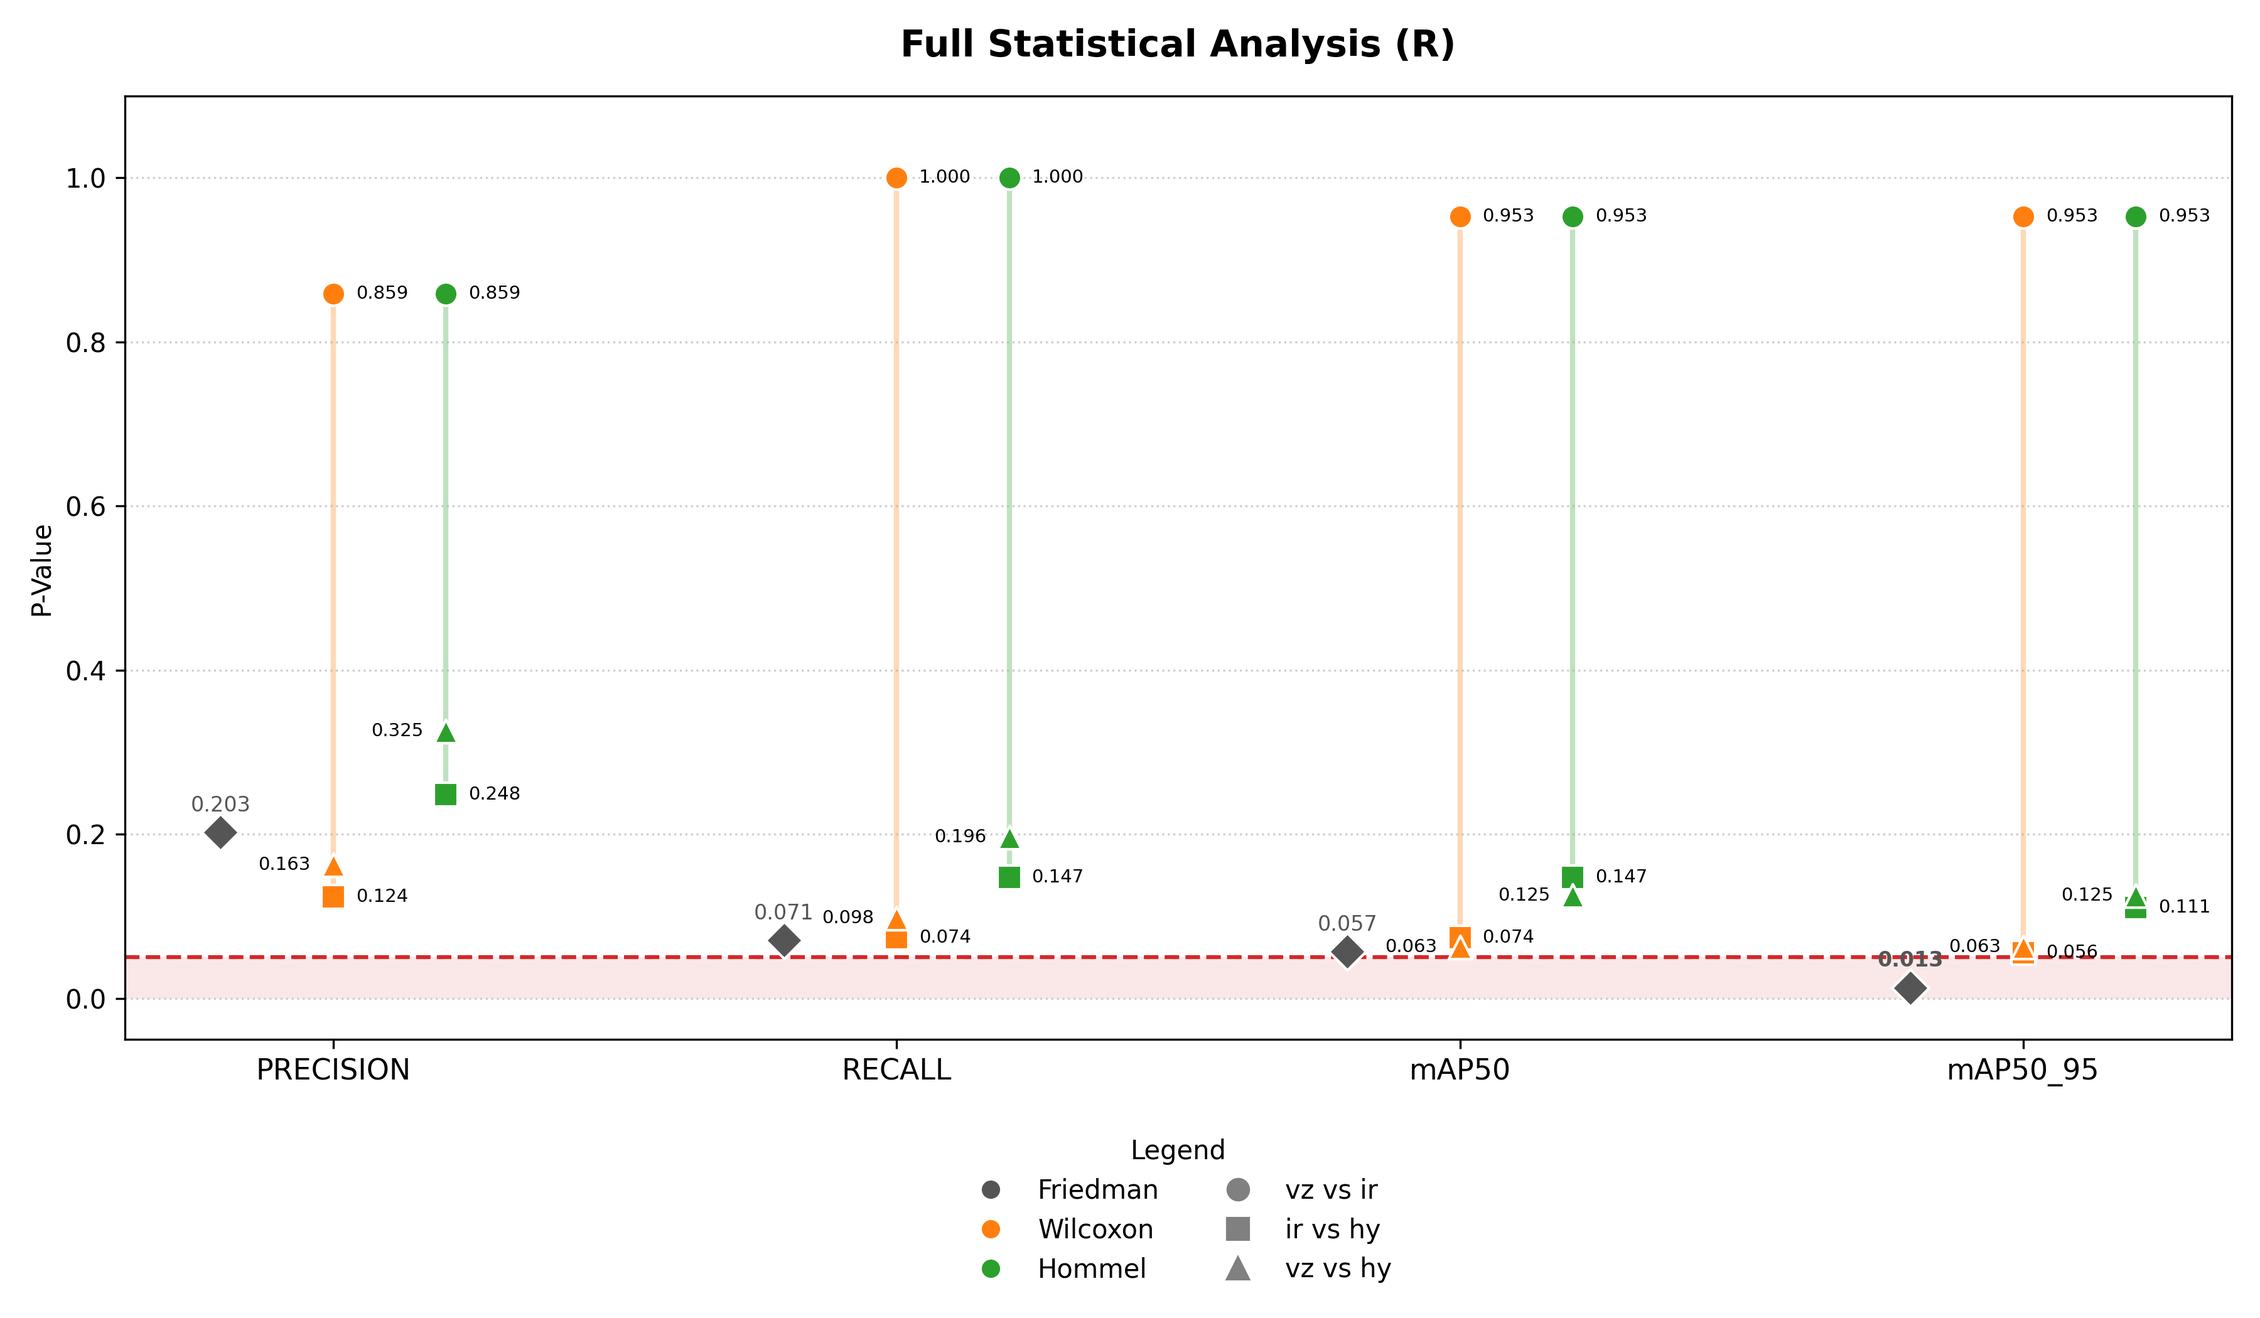
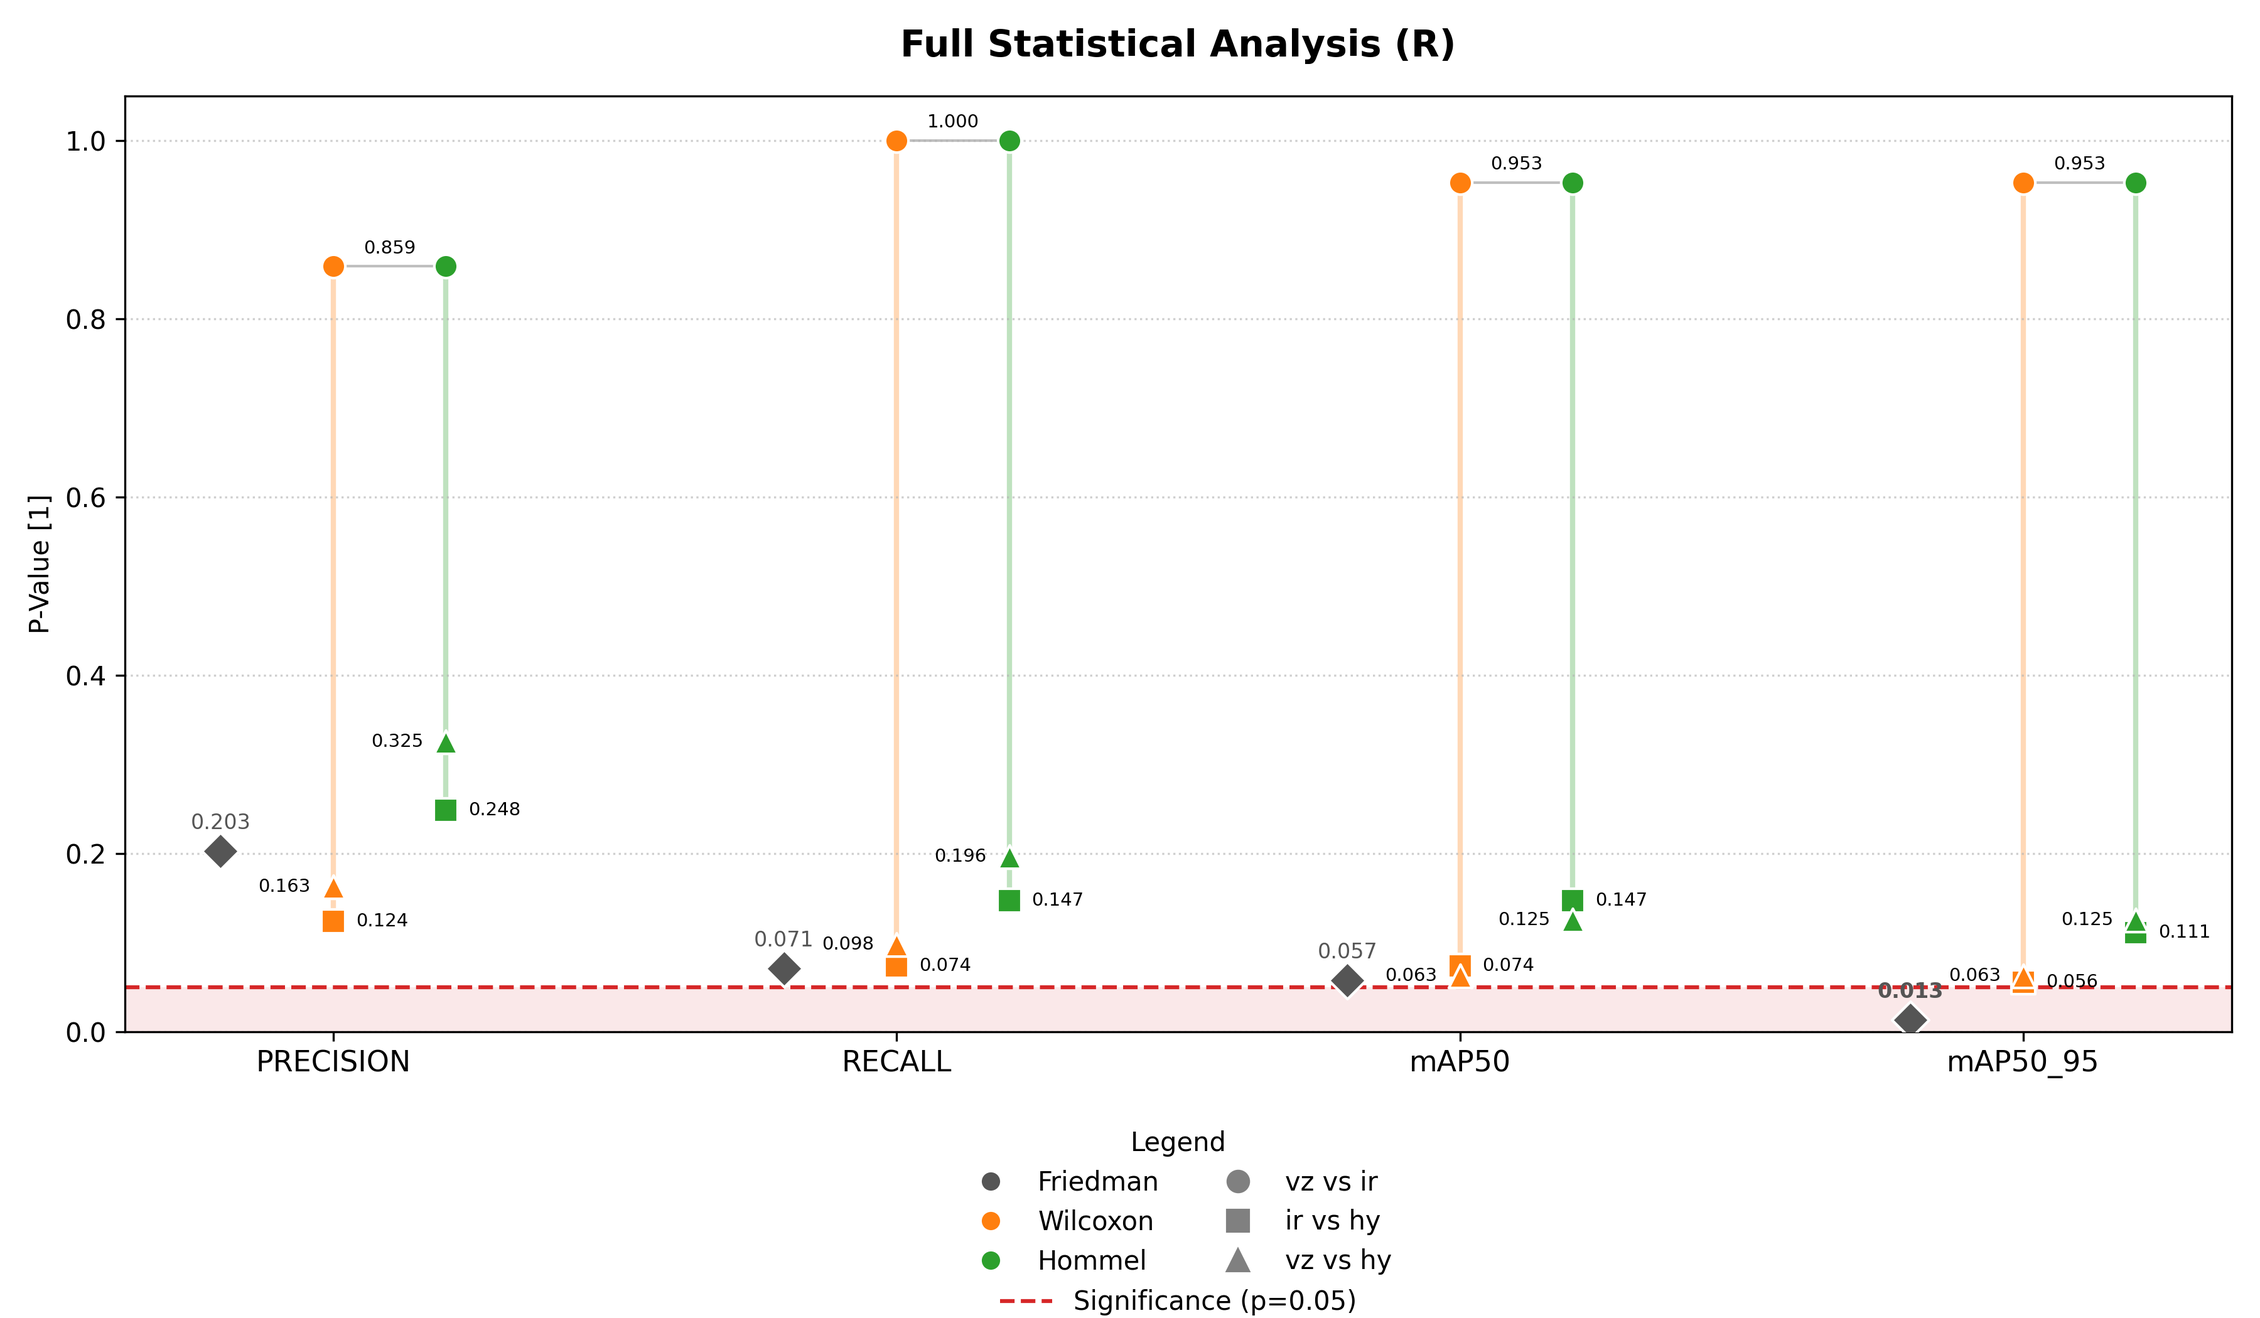
update plots based on feedback

diff --git a/uav/visualization/wilcoxon.py b/uav/visualization/wilcoxon.py
@@ -26,10 +26,8 @@ def render_wilcoxon(results_filepath: str, wilcoxon_png_filepath: str) -> None:
 
     for i, col_name in enumerate(comparisons):
         ax = axes[i]
-        
-        ax.axhspan(0, SIG_THRESHOLD, facecolor=SIG_COLOR, alpha=0.1, zorder=0)
-        ax.axhline(SIG_THRESHOLD, color=SIG_COLOR, linestyle='--', linewidth=1.5, alpha=0.8)
-        
+
+        all_y_vals = []
         for impl in IMPLEMENTATIONS:
             y_vals = []
             valid_x = []
@@ -43,55 +41,119 @@ def render_wilcoxon(results_filepath: str, wilcoxon_png_filepath: str) -> None:
             
             if not y_vals: continue
 
-            ax.scatter(valid_x, y_vals, color=COLORS[impl], label=impl, 
+            all_y_vals.extend(y_vals)
+            scatter = ax.scatter(valid_x, y_vals, color=COLORS[impl], label=impl,
                     s=90, marker=MARKERS[impl], edgecolors='white', linewidth=1, zorder=3)
+            scatter.set_clip_on(True)
 
-        for x_idx, metric in enumerate(METRICS):            
-            for order_idx, impl in enumerate(ordered_impls):
-                
+        if all_y_vals:
+            y_range = max(all_y_vals) - min(all_y_vals)
+            text_offset = y_range * 0.03 if y_range > 0 else 0.01
+            y_min, y_max = min(all_y_vals), max(all_y_vals)
+            margin = y_range * 0.15 if y_range > 0 else 0.1
+            plot_y_min = max(0, y_min - margin)
+            plot_y_max = y_max + margin if y_max >= 0.98 else min(1.0, y_max + margin)
+        else:
+            text_offset = 0.03
+            plot_y_min, plot_y_max = 0, 1.0
+
+        for x_idx, metric in enumerate(METRICS):
+            metric_values = {}
+            for impl in ordered_impls:
                 row = df[(df['measured_metric'] == metric) & (df['implementation'] == impl)]
-                if row.empty: continue
-                
-                try:
-                    val = row[col_name].values[0]
-                except IndexError:
+                if not row.empty:
+                    try:
+                        val = row[col_name].values[0]
+                        metric_values[impl] = val
+                    except IndexError:
+                        pass
+
+            at_one = [impl for impl, val in metric_values.items() if val == 1.0]
+
+            if len(at_one) > 1:
+                x_positions = [x_idx + offsets[impl] for impl in at_one]
+                ax.plot(x_positions, [1.0] * len(at_one), color='gray', linewidth=1, alpha=0.5, zorder=1)
+
+                center_x = sum(x_positions) / len(x_positions)
+                y_loc = 1.0 - text_offset
+                ax.text(center_x, y_loc, '1.000',
+                        ha='center', va='top',
+                        fontsize=7, fontweight='normal', color='black', zorder=4,
+                        clip_on=False)
+
+            for order_idx, impl in enumerate(ordered_impls):
+                if impl not in metric_values:
                     continue
-                
-                x_loc = x_idx + offsets[impl]                
+
+                val = metric_values[impl]
+
+                if val == 1.0 and len(at_one) > 1:
+                    continue
+
+                x_loc = x_idx + offsets[impl]
                 is_above = (order_idx % 2 == 0)
-                
+
                 if is_above:
-                    y_loc = val + 0.03
+                    y_loc = val + text_offset
                     va = 'bottom'
                 else:
-                    y_loc = val - 0.03
+                    y_loc = val - text_offset
                     va = 'top'
 
+                y_loc = max(plot_y_min, min(plot_y_max, y_loc))
+
                 fw = 'bold' if val < SIG_THRESHOLD else 'normal'
-                
-                ax.text(x_loc, y_loc, f'{val:.3f}', 
-                        ha='center', va=va, 
+
+                ax.text(x_loc, y_loc, f'{val:.3f}',
+                        ha='center', va=va,
                         fontsize=7, fontweight=fw, color='black', zorder=4)
+
+        if all_y_vals:
+            if plot_y_min <= SIG_THRESHOLD <= plot_y_max:
+                ax.axhline(SIG_THRESHOLD, color=SIG_COLOR, linestyle='--', linewidth=1.5, label=f'Significance (p={SIG_THRESHOLD})')
+                span_bottom = max(0, plot_y_min)
+                ax.axhspan(span_bottom, SIG_THRESHOLD, facecolor=SIG_COLOR, alpha=0.1, zorder=0)
+
+            ax.set_ylim(plot_y_min, plot_y_max)
 
         ax.set_title(comp_labels[i], fontweight='bold')
         ax.set_xticks(x_pos)
         ax.set_xticklabels(METRICS, rotation=45, ha='right')
         
-        ax.set_ylim(0.0, 1.05) 
         ax.grid(axis='y', linestyle=':', alpha=0.6, linewidth=1)
         
         if i == 0:
-            ax.set_ylabel('Wilcoxon P-Value')
+            ax.set_ylabel('Wilcoxon P-Value [1]')
 
-    handles, labels = axes[0].get_legend_handles_labels()
-    unique_labels = {l: h for l, h in zip(labels, handles)}
-    
-    fig.legend(unique_labels.values(), unique_labels.keys(), 
-                loc='lower center', ncol=3, 
-                bbox_to_anchor=(0.5, 0.02), frameon=False, title='Implementation')
+    all_handles = []
+    all_labels = []
+    for ax in axes:
+        h, l = ax.get_legend_handles_labels()
+        all_handles.extend(h)
+        all_labels.extend(l)
+
+    unique_labels = {l: h for l, h in zip(all_labels, all_handles)}
+
+    impl_handles = [unique_labels[impl] for impl in IMPLEMENTATIONS if impl in unique_labels]
+    impl_labels = [impl for impl in IMPLEMENTATIONS if impl in unique_labels]
+
+    sig_handle = unique_labels.get(f'Significance (p={SIG_THRESHOLD})', None)
+
+    if sig_handle:
+        legend1 = fig.legend(impl_handles, impl_labels,
+                            loc='lower center', ncol=3,
+                            bbox_to_anchor=(0.5, 0.06), frameon=False, title='Implementation')
+        fig.add_artist(legend1)
+        fig.legend([sig_handle], [f'Significance (p={SIG_THRESHOLD})'],
+                   loc='lower center', ncol=1,
+                   bbox_to_anchor=(0.5, 0.02), frameon=False)
+    else:
+        fig.legend(impl_handles, impl_labels,
+                   loc='lower center', ncol=3,
+                   bbox_to_anchor=(0.5, 0.04), frameon=False, title='Implementation')
 
     plt.suptitle('Paired Wilcoxon Test Results', fontsize=14, fontweight='bold', y=0.98)
-    
-    plt.subplots_adjust(bottom=0.20, top=0.90, wspace=0.2, left=0.08, right=0.98)
+
+    plt.subplots_adjust(bottom=0.25, top=0.90, wspace=0.2, left=0.08, right=0.98)
     plt.savefig(wilcoxon_png_filepath, dpi=300)
     plt.close()

diff --git a/uav/visualization/full_statistical_analysis.py b/uav/visualization/full_statistical_analysis.py
@@ -73,9 +73,9 @@ def render_full_statistical_analysis(results_filepath: str, full_analysis_png_fi
     x_indices = np.arange(len(METRICS))
     offset_map = {'Friedman': -0.2, 'Wilcoxon': 0.0, 'Hommel': 0.2}
 
+    ax.axhline(SIG_THRESHOLD, color=SIG_COLOR, linestyle='--', linewidth=1.5, label=f'Significance (p={SIG_THRESHOLD})', zorder=2)
     ax.axhspan(0, SIG_THRESHOLD, facecolor=SIG_COLOR, alpha=0.1, zorder=0)
-    ax.axhline(SIG_THRESHOLD, color=SIG_COLOR, linestyle='--', linewidth=1.5, label=f'Significance (p={SIG_THRESHOLD})')
-
+    
     for i, metric in enumerate(METRICS):
         row = df[df['measured_metric'] == metric].iloc[0]
         
@@ -96,38 +96,61 @@ def render_full_statistical_analysis(results_filepath: str, full_analysis_png_fi
         
         pair_names = ['1v2', '2v3', '1v3']
 
+        wilcoxon_vals = [row[c] for c in ['wilcoxon_p_1v2', 'wilcoxon_p_2v3', 'wilcoxon_p_1v3']]
+        hommel_vals = [row[c] for c in ['hommel_p_1v2', 'hommel_p_2v3', 'hommel_p_1v3']]
+
+        equal_pairs = {pair: (wilc == homm) for pair, wilc, homm in zip(pair_names, wilcoxon_vals, hommel_vals)}
+
         for test_name, cols in test_groups:
             vals = [row[c] for c in cols]
             x_base = x_indices[i] + offset_map[test_name]
-            
+
             ax.vlines(x_base, min(vals), max(vals), color=COLOR_MAP[test_name], alpha=0.3, linewidth=2, zorder=1)
-            
+
             for val, pair in zip(vals, pair_names):
-                ax.scatter(x_base, val, color=COLOR_MAP[test_name], marker=MARKER_MAP[pair], 
+                ax.scatter(x_base, val, color=COLOR_MAP[test_name], marker=MARKER_MAP[pair],
                         s=80, edgecolors='white', zorder=3)
-                
+
+                if equal_pairs[pair]:
+                    continue
+
                 fw = 'bold' if val < SIG_THRESHOLD else 'normal'
-                
-                if pair == '1v3': 
+
+                if pair == '1v3':
                     ha_align = 'right'
                     text_offset_x = -0.04
-                elif pair == '2v3': 
+                elif pair == '2v3':
                     ha_align = 'left'
                     text_offset_x = 0.04
+                elif pair == '1v2' and test_name == 'Wilcoxon':
+                    ha_align = 'right'
+                    text_offset_x = -0.04
                 else:
                     ha_align = 'left'
                     text_offset_x = 0.04
-                
-                ax.text(x_base + text_offset_x, val, f'{val:.3f}', 
+
+                ax.text(x_base + text_offset_x, val, f'{val:.3f}',
                         ha=ha_align, va='center', fontsize=7, fontweight=fw, color='black')
 
+        for pair, wilc_val, homm_val in zip(pair_names, wilcoxon_vals, hommel_vals):
+            if wilc_val == homm_val:
+                x_wilc = x_indices[i] + offset_map['Wilcoxon']
+                x_homm = x_indices[i] + offset_map['Hommel']
+                ax.plot([x_wilc, x_homm], [wilc_val, homm_val], color='gray', linewidth=1, alpha=0.5, zorder=1)
+
+                x_center = (x_wilc + x_homm) / 2
+                fw = 'bold' if wilc_val < SIG_THRESHOLD else 'normal'
+                ax.text(x_center, wilc_val + 0.01, f'{wilc_val:.3f}',
+                        ha='center', va='bottom', fontsize=7, fontweight=fw, color='black', zorder=4)
+
     ax.set_title(title, fontweight='bold', fontsize=14, pad=15)
-    ax.set_ylabel('P-Value')
+    ax.set_ylabel('P-Value [1]')
     ax.set_xticks(x_indices)
     ax.set_xticklabels(METRICS, fontsize=11)
-    ax.set_ylim(-0.05, 1.1)
     ax.grid(axis='y', linestyle=':', alpha=0.6)
 
+    current_ylim = ax.get_ylim()
+    ax.set_ylim(0, current_ylim[1])
 
     legend_elements = [
         Line2D([0], [0], marker='o', color='w', markerfacecolor=COLOR_MAP['Friedman'], label='Friedman', markersize=8),
@@ -139,10 +162,15 @@ def render_full_statistical_analysis(results_filepath: str, full_analysis_png_fi
         Line2D([0], [0], marker=MARKER_MAP['1v3'], color='gray', label='vz vs hy', markerfacecolor='gray', markersize=8, linestyle='None'),
     ]
 
-    ax.legend(handles=legend_elements, loc='upper center', bbox_to_anchor=(0.5, -0.08),
-            ncol=2, frameon=False, title="Legend")
+    legend1 = ax.legend(handles=legend_elements, loc='upper center', bbox_to_anchor=(0.5, -0.08),
+                        ncol=2, frameon=False, title="Legend")
+    ax.add_artist(legend1)
 
-    plt.subplots_adjust(bottom=0.2)
+    sig_element = Line2D([0], [0], color=SIG_COLOR, linestyle='--', linewidth=1.5, label=f'Significance (p={SIG_THRESHOLD})')
+    ax.legend(handles=[sig_element], loc='upper center', bbox_to_anchor=(0.5, -0.25),
+              ncol=1, frameon=False)
+
+    plt.subplots_adjust(bottom=0.28)
     plt.tight_layout()
     plt.savefig(png_filepath, dpi=300)
     plt.close()

diff --git a/uav/visualization/metrics.py b/uav/visualization/metrics.py
@@ -10,8 +10,18 @@ def render_violin_plots(csv_path: str, output_path: str) -> None:
     if 'mAP50-95' in df.columns:
         df = df.rename(columns={'mAP50-95': 'mAP50_95'})
 
-    metrics = ['precision', 'recall', 'mAP50', 'mAP50_95']
-    df_subset = df[['experiment'] + metrics]
+    metrics_map = {
+        'precision': 'PRECISION',
+        'recall': 'RECALL',
+        'mAP50': 'mAP50',
+        'mAP50_95': 'mAP50_95'
+    }
+
+    actual_columns = [col for col in ['precision', 'recall', 'mAP50', 'mAP50_95'] if col in df.columns]
+    df_subset = df[['experiment'] + actual_columns].copy()
+
+    df_subset = df_subset.rename(columns=metrics_map)
+    metrics = list(metrics_map.values())
 
     stats = df_subset.groupby('experiment')[metrics].agg(['mean', 'std'])
     experiment_order = ['VZ', 'IR', 'HY']
@@ -24,35 +34,36 @@ def render_violin_plots(csv_path: str, output_path: str) -> None:
     )
 
     g = sns.catplot(
-        data=df_melted, 
-        x='experiment', 
-        y='Score', 
+        data=df_melted,
+        x='experiment',
+        y='Score',
         col='Metric',
-        kind='violin', 
+        kind='violin',
         col_wrap=4,
         order=experiment_order,
         sharey=False,
         sharex=False,
-        height=5, 
+        height=5,
         aspect=0.7,
+        hue='experiment',
         palette={'VZ': '#2E86AB', 'IR': '#A23B72', 'HY': '#F18F01'},
+        legend=False,
         inner='quartile',
         cut=0
     )
 
-    g.set(ylim=(0.35, 1.05))
     g.set_titles("{col_name}", fontweight='bold', size=14)
 
     for ax in g.axes.flatten():
         metric_name = ax.get_title()
-        
+
         ranking_data = []
         for exp in experiment_order:
             if exp in stats.index:
                 m_val = stats.loc[exp, (metric_name, 'mean')]
                 s_val = stats.loc[exp, (metric_name, 'std')]
                 ranking_data.append({'exp': exp, 'mean': m_val, 'std': s_val})
-        
+
         ranking_data.sort(key=lambda x: (-x['mean'], x['std']))
         rank_map = {item['exp']: i for i, item in enumerate(ranking_data)}
 
@@ -61,21 +72,27 @@ def render_violin_plots(csv_path: str, output_path: str) -> None:
             if exp_name in stats.index:
                 m = stats.loc[exp_name, (metric_name, 'mean')]
                 s = stats.loc[exp_name, (metric_name, 'std')]
-                
+
                 rank = rank_map[exp_name]
-                
+
                 # Generate newlines based on rank
                 newlines = "\n" * (rank + 1)
                 label_text = f"{exp_name}{newlines}{m:.4f} ± {s:.4f}"
             else:
                 label_text = f"{exp_name}\nN/A"
-            
+
             new_labels.append(label_text)
-        
+
+        ax.set_xticks(ax.get_xticks())
         ax.set_xticklabels(new_labels, fontweight='bold', fontsize=9)
         ax.grid(axis='y', linestyle='--', alpha=0.3)
 
-    g.set_axis_labels("", "Score")
+        for spine in ax.spines.values():
+            spine.set_visible(True)
+            spine.set_linewidth(1)
+            spine.set_edgecolor('black')
+
+    g.set_axis_labels("", "Score [1]")
     g.fig.suptitle('Performance Distribution', fontsize=16, fontweight='bold', y=1.05)
     
     plt.tight_layout()

diff --git a/uav/visualization/friedman.py b/uav/visualization/friedman.py
@@ -41,21 +41,21 @@ def render_friedman(results_filepath: str, friedman_png_filepath: str) -> None:
         
         center_sr = (x_scipy + x_r) / 2
         fw_sr = 'bold' if val_scipy < SIG_THRESHOLD else 'normal'
-        ax.text(center_sr, val_scipy + 0.01, f'{val_scipy:.3f}', 
+        ax.text(center_sr, val_scipy + 0.005, f'{val_scipy:.3f}', 
                 ha='center', va='bottom', fontsize=8, fontweight=fw_sr)
         
         fw_p = 'bold' if val_ping < SIG_THRESHOLD else 'normal'
-        ax.text(x_ping, val_ping + 0.01, f'{val_ping:.3f}', 
+        ax.text(x_ping, val_ping + 0.004, f'{val_ping:.3f}', 
                 ha='center', va='bottom', fontsize=8, fontweight=fw_p)
 
     ax.axhline(SIG_THRESHOLD, color=SIG_COLOR, linestyle='--', linewidth=1.5, label=f'Significance (p={SIG_THRESHOLD})')
     ax.axhspan(0, SIG_THRESHOLD, facecolor=SIG_COLOR, alpha=0.1, zorder=0)
-    ax.set_ylabel('Friedman P-Value')
+    ax.set_ylabel('Friedman P-Value [1]')
     ax.set_title('Friedman Test Results', fontweight='bold', pad=15)
+    ax.set_ylim(bottom=0.0)
     ax.set_xticks(x)
     ax.set_xticklabels(METRICS)
     ax.grid(axis='y', linestyle=':', alpha=0.6, linewidth=1)
-    ax.set_ylim(0, df['friedman_p'].max() + 0.05)
     ax.legend(title='Implementation', frameon=True, loc='upper right')
 
     plt.tight_layout()
